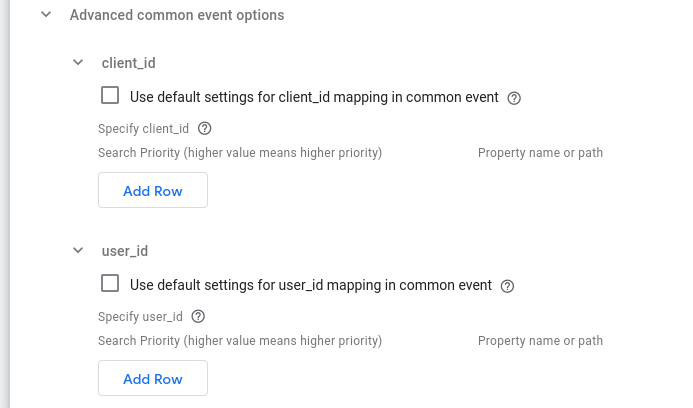
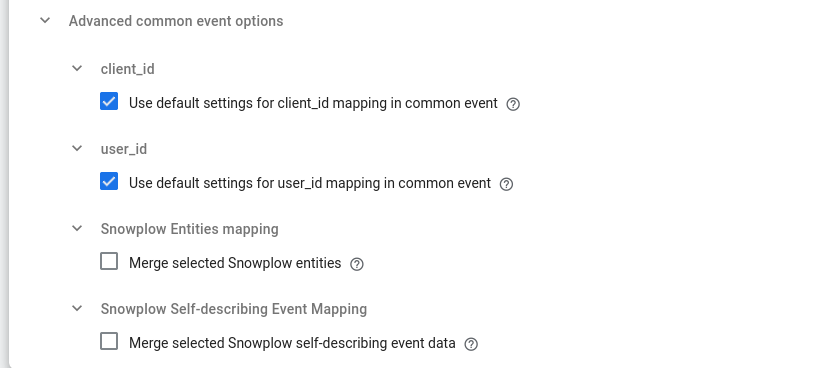
Update docs for Snowplow GTM-SS Client v0.6.0

diff --git a/docs/destinations/forwarding-events/google-tag-manager-server-side/snowplow-client-for-gtm-ss/snowplow-client-configuration/index.md b/docs/destinations/forwarding-events/google-tag-manager-server-side/snowplow-client-for-gtm-ss/snowplow-client-configuration/index.md
@@ -111,3 +111,170 @@ You can use this table to specify the rules to set the `user_id` of the common e
 
 - **Priority**: Using this column you can set the priority (higher values mean higher priority) with which the Client will look into the Snowplow event to locate the value to set the `user_id`.
 - **Property name or path**: This column refers to the common event, so you can define alternative Snowplow properties using the `x-sp-` prefix before the enriched property name or nested path (using dot notation). For example: `x-sp-contexts_com_acme_user_entity_1.0.email`.
+
+### Snowplow Entities Mapping
+
+:::note
+
+This is an advanced feature and we recommend that you first explore the configuration options of your Tag(s) in case they are enough to cover your use case.
+
+:::
+
+#### Merge selected Snowplow entities
+
+Enable this option to allow merging of Snowplow context data to the Common Event. Checking this box reveals the following table:
+
+![](images/context_merging_overview.png)
+
+#### Context entities to merge
+
+Using this table you can specify the rules to merge Snowplow context entity data to the Common Event. The columns of this table are:
+
+![](images/context_merging_new_row.png)
+
+1. **Schema**: (Required) The schema of the context entity to merge.
+
+:::info
+
+The **Schema** can be specified in 3 ways:
+
+- Iglu URI (e.g. `iglu:com.acme/test/jsonschema/1-0-0` )
+- Enriched name (e.g. `contexts_com_acme_test_1`)
+- Common Event name (e.g. `x-sp-contexts_com_acme_test_1`)
+
+:::
+
+2. **Apply to all versions**: (False/True) Whether the rule applies to all versions of the context entity schema. Default is False.
+
+:::info
+
+When you set **Apply to all versions** to `True`, it will apply the same rule to all versions of the schema, independently of the one mentioned in the **Schema** field.
+
+:::
+
+3. **Prefix**: (Optional) Specify a prefix to use for property names when merging.
+
+4. **Merge to**: (Event Properties/Custom) Specify where to merge the context entity's properties. Default is Event Properties, i.e. to the root level of the common event.
+
+5. **Custom path**: (Optional) The path for custom merging.
+
+:::info
+
+The **Custom path** option applies only if the **Merge to** column is set to `Custom`, else the row is considered invalid.
+
+:::
+
+6. **Keep original mapping**: (True/False) Whether to keep the original context mapping. Default is True.
+
+7. **Custom transformation**: (Optional) Specify a Variable returning **a function** that represents a custom transformation of the context data to the desired object before merging. The default behaviour is the following: It first checks whether the context array contains a single entity object and if so, it merges this single object. In case the context specified contains multiples of entity objects, the rule is not applied (in those cases you will need to provide a custom transformation function through a Variable).
+
+:::info
+
+The function signature must be: `(contextArray, event) => Object`
+
+The Client guarantees that it will call this function providing as arguments the original context (Array) specified and the Common Event (Object) it has constructed. The event argument is provided in order to enable merging logic to optionally be based on event properties. Please note that it is not possible to modify the event inside the function you will define. The Client expects the function to return an Object, otherwise the value is ignored.
+
+:::
+
+#### Example: Custom transformation function for context mapping
+
+You can define and return the function in a **Variable Template**, which you can then use to create a **Variable** to reference.
+
+The following is an example code of such a **Variable Template**:
+
+```javascript
+// Variable template code
+function selectFirst(contextArray, event) {
+  // the function must return an object
+  return contextArray[0];
+}
+
+// The Variable must return the function
+return selectFirst;
+```
+
+### Snowplow Self-describing Event Mapping
+
+:::note
+
+This is an advanced feature and we recommend that you first explore the configuration options of your Tag(s) in case they are enough to cover your use case.
+
+:::
+
+#### Merge selected Snowplow self-describing event data
+
+Enable this option to allow merging of Snowplow self-describing event data to the Common Event. Checking this box reveals the following table:
+
+![](images/selfdesc_merging_overview.png)
+
+#### Self-describing events to merge
+
+Using this table you can specify the rules to merge Snowplow self-describing event data to the Common Event. The columns of this table are:
+
+![](images/selfdesc_merging_new_row.png)
+
+**Schema**: (Required) The schema of the self-describing event.
+
+:::info
+
+The **Schema** can be specified in 3 ways:
+
+- Iglu URI (e.g. `iglu:com.acme/myevent/jsonschema/1-0-0` )
+- Enriched name (e.g. `contexts_com_acme_myevent_1`)
+- Common Event name (e.g. `x-sp-contexts_com_acme_myevent_1`)
+
+:::
+
+**Apply to all versions**: (False/True) Whether the rule applies to all versions of the self-describing event schema. Default is False.
+
+:::info
+
+When you set **Apply to all versions** to `True`, it will apply the same rule to all versions of the schema, independently of the one mentioned in the **Schema** field.
+
+:::
+
+**Prefix**: (Optional) Specify a prefix to use for property names when merging.
+
+**Merge to**: (Event Properties/Custom) Specify where to merge the self-describing event’s properties. Default is Event Properties, i.e. to the root level of the common event.
+
+**Custom path**: (Optional) The path for custom merging.
+
+:::info
+
+The **Custom path** option applies only if the **Merge to** column is set to `Custom`, else the row is considered invalid.
+
+:::
+
+**Keep original mapping**: (True/False) Whether to keep the original context mapping. Default is True.
+
+**Custom transformation**: (Optional) Specify a Variable returning **a function** that represents a custom transformation of the self-describing data to the desired object before merging. The default behaviour is to merge the self-describing data object as is.
+
+:::info
+
+The function signature must be: `(selfDescObject, event) => Object`
+
+The Client guarantees that it will call this function providing as arguments the original self-describing data (Object) specified and the Common Event (Object) it has constructed. The event argument is provided in order to enable merging logic to optionally be based on other event properties. Please note that it is not possible to modify the event inside the function you will define. The Client expects the function to return an Object, otherwise the value is ignored.
+
+:::
+
+#### Example: Custom transformation function for self-describing event mapping
+
+You can define and return the function in a **Variable Template**, which you can then use to create a **Variable** to reference.
+
+The following is an example code of such a **Variable Template**:
+
+```javascript
+// Variable template code
+const Object = require('Object');
+
+function addKeySuffix(selfDescObject, event) {
+  // the function must return an object
+  return Object.keys(selfDescObject).reduce((acc, curr) => {
+    acc[curr.concat('_suffix')] = selfDescObject[curr];
+    return acc;
+  }, {});
+}
+
+// The Variable must return the function
+return addKeySuffix;
+```
